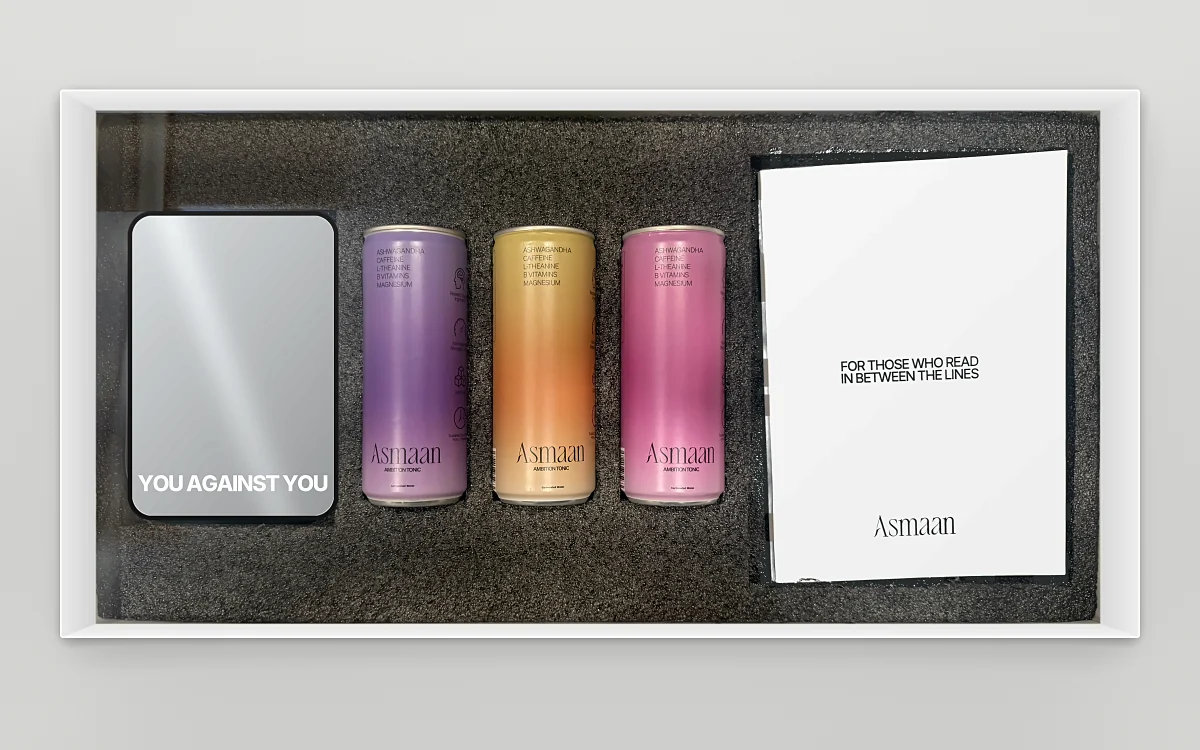
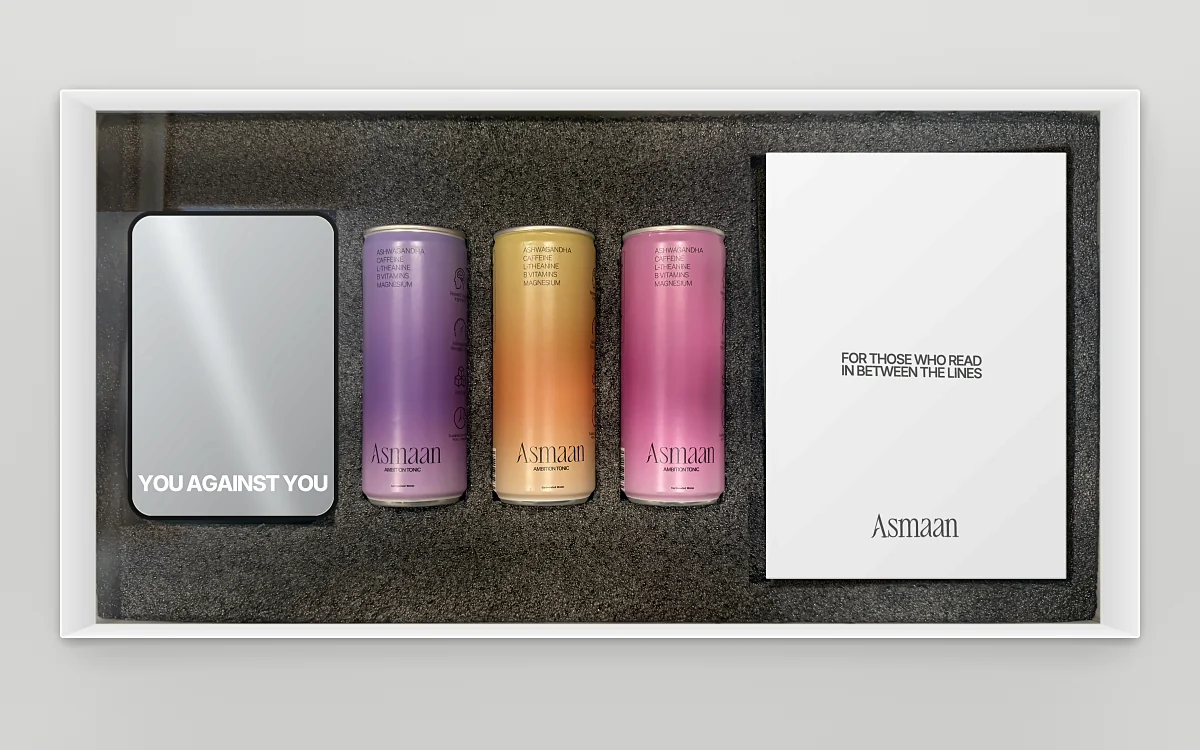
Presale page: notebook set straight in the open box; You against you title no longer covered by the mirror photo

diff --git a/assets/asmaan-presale.css b/assets/asmaan-presale.css
@@ -247,11 +247,9 @@
   opacity: 0.7;
 }
 
-/* The mirror: its own slogan, set like the print on it, with the photo over its foot. */
+/* The mirror: its own slogan, set like the print on it, clear above the photo. */
 .psb_slogan {
-  position: relative;
-  z-index: 0;
-  margin: 0 auto -0.24em !important;
+  margin: 0 auto clamp(40px, 5vw, 88px) !important;
   font-size: clamp(40px, 10.4vw, 190px);
   font-weight: 800;
   line-height: 0.82;
@@ -260,7 +258,6 @@
   text-transform: uppercase;
   white-space: nowrap;
 }
-.psb_ch--mirror .psb_ch-grid { position: relative; z-index: 1; }
 .psb_photo--mirror { max-width: 520px; width: 100%; justify-self: center; }
 
 /* The notebook: the box's own white and the navy it is printed in. */
